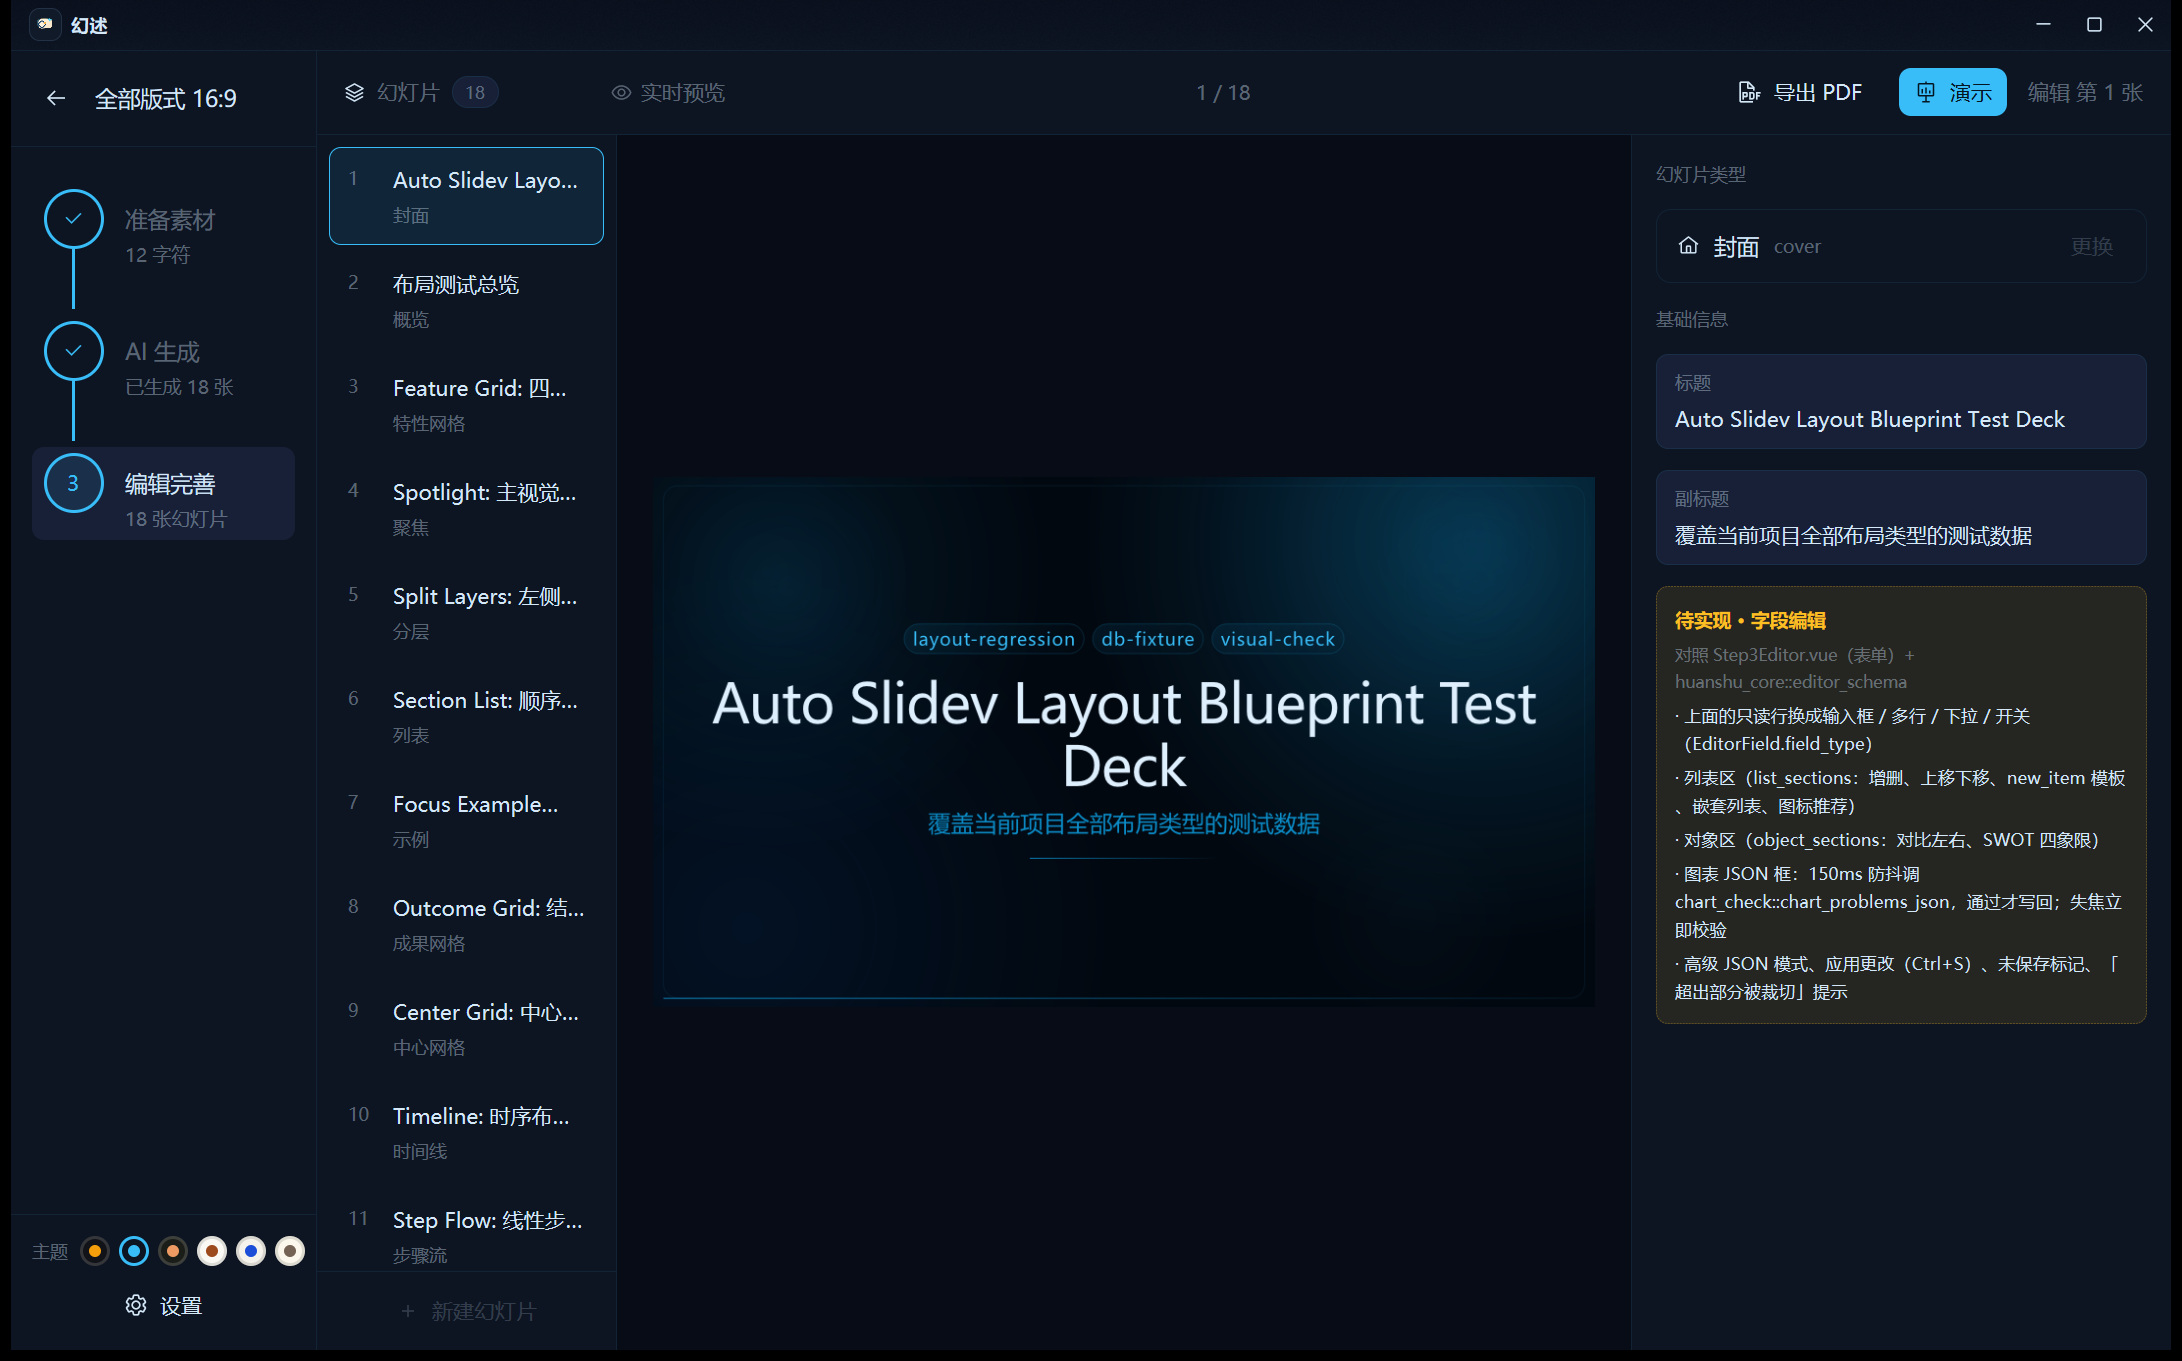
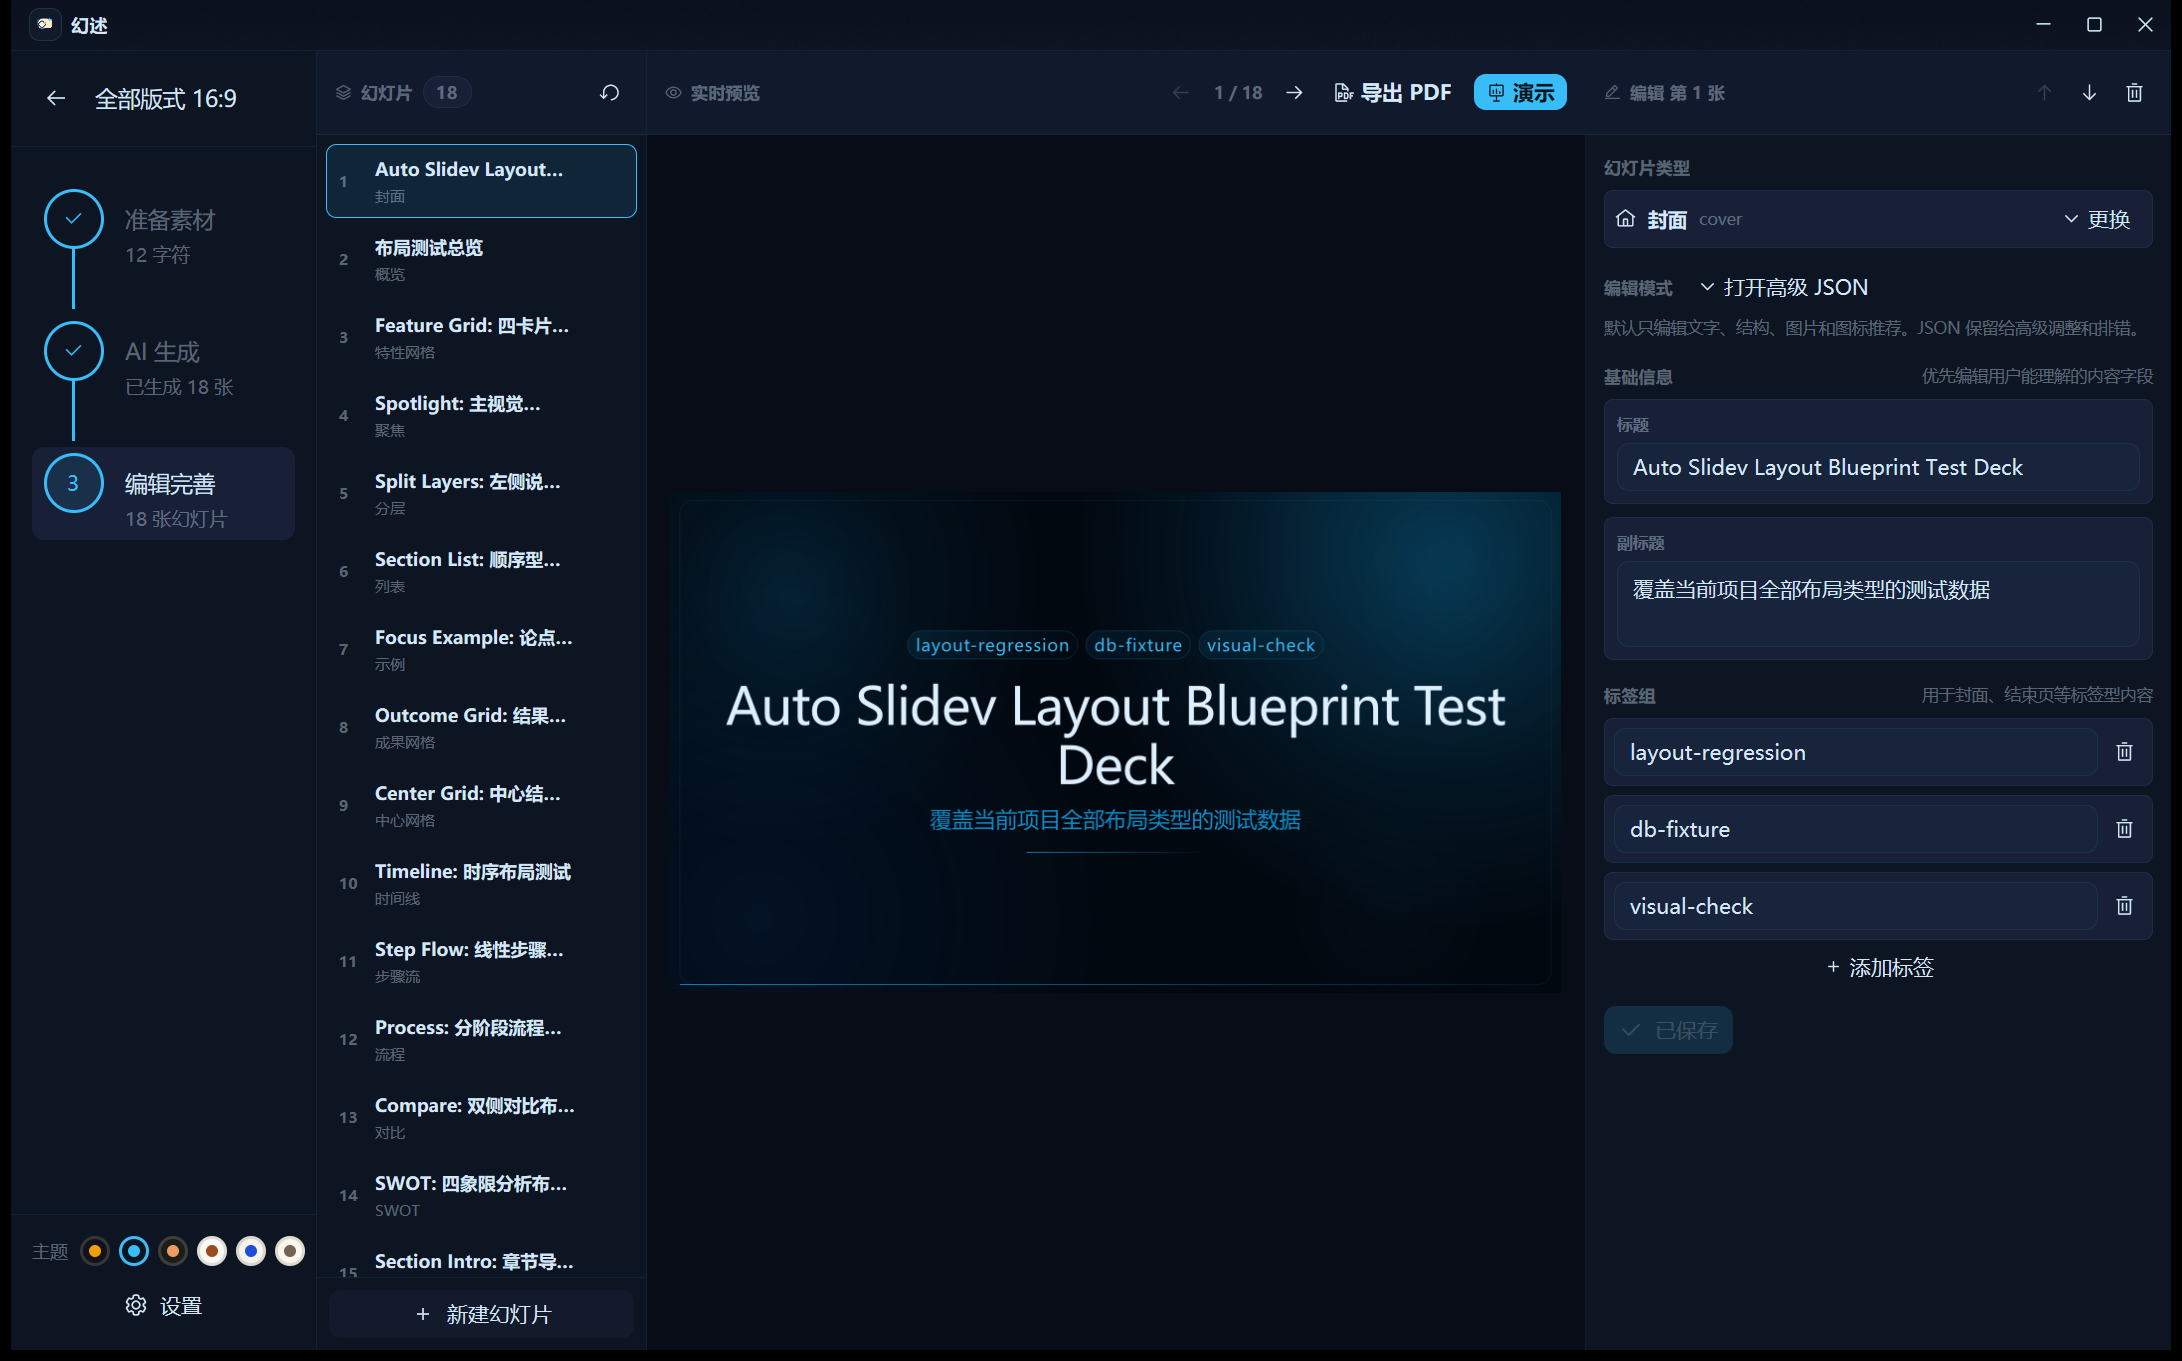
docs(native): parity and screenshots for step 3 editing

diff --git a/docs/native/parity.md b/docs/native/parity.md
@@ -81,6 +81,7 @@
 | 项目改名（点名字编辑，回车/失焦保存，Esc 取消） | ✅ | `mod.rs::start_rename` / `save_name`（空名不保存、保持编辑态，照原版）；待截图对比 |
 | 新建项目的草稿（名称、文稿、粒度、比例）保存与恢复 | ✅ | 800ms 防抖自动保存（`WorkflowPage::schedule_autosave` / `persist_draft`，新建落库后 `retarget_route` 对准路由）；meta 存 `app_settings` 的 `project_meta:<id>`（`services::projects::Step1ProjectMeta`，单测 `step1_meta_*`）；待截图对比 |
 | 生成完成后自动跳到第 3 步 | ✅ | `sync_advance`：条件从**应用级 store** 读（`state_for` → `GenState`），与原版 watch 的 `[stage, retryingPages.size, 有失败页]` 一样「变了才判断」——`done` + 无重试 + 无失败页 + 用户正停在本项目的第 2 步时，800ms 后再查一遍再跳；计时走 `window.background_executor().timer`（不是 tokio）；自动跳页依赖一次成功的生成，**未真机验证**（需 LM Studio） |
+| 牌组的唯一写入路径 | ✅ | 第三步的每一处编辑（应用 / 新建 / 删除 / 移动 / 换版式）都只经 `WorkflowPage::commit_deck(deck, active, save, …)`：先写 `ProjectModel`（`deck` + `active_slide`）→ 再写应用级 store（`GenerationStore::set_deck`，只在 store 正持有本项目且不在生成中时写得进去）→ `save` 时整副 JSON 落库；`on_generation_changed` 的镜像比较后相等就不动，不会回环。落库状态由 `ProjectModel.deck_saving` / `deck_save_error` 单点表达（每条出口都复位） |
 | 库里停在 `running` 的旧运行（上次进程崩了） | 🟡 | **有意偏离**：原版会一直转圈；这里按「已中断」显示（`running=false`、阶段照 `slideStatus` 的非运行分支）且允许重新生成，**不改库**（`GenerationStore::apply_run`） |
 
 ## 第一步 `Step1Prepare.vue` + `MarkdownWorkbench.vue` → `workflow/step1.rs`
@@ -122,21 +123,22 @@
 
 | 功能 | 状态 | 说明 / 依据 |
 |---|---|---|
-| 工具栏：幻灯片数、页码、导出 PDF、演示 | ✅ | |
-| 左侧列表：序号、标题、版式；点击 / ↑↓ 换页 | ✅ | |
-| 中间实时预览（Typst 位图、加载 / 失败 / 重试） | ✅ | `slides::SlideImages` |
-| 裁切提示 | ✅ | 文案与原版一致 |
-| 只发当前页编译（`serial` + `progressive`） | ⬜ | 编辑接上后改成单页牌组 |
-| 版式卡片（图标、名称、kind） | ✅ | 来自 `editor_schema` |
-| 更换版式（KindPicker，change 模式） | ⬜ | `onKindPicked` |
-| 新建 / 删除 / 上下移动幻灯片 | ⬜ | `deleteEditorSlide` / `moveEditorSlide` |
-| 字段表单：简单字段（文本 / 多行 / 下拉 / 开关） | 🟡 | 现为只读展示 |
-| 列表区、嵌套列表、对象区 | ⬜ | `list_sections` / `object_sections` / `new_item` |
-| 图标推荐 | ⬜ | `services::generation::recommend_icons_for_query` |
-| 素材插图（主图、图集） | ⬜ | `setPrimaryImage` / `appendGalleryImage` |
-| 图表 JSON 框（防抖校验、失焦立即校验、只写回通过的） | ⬜ | `chart_check::chart_problems_json` |
-| 高级 JSON 模式（格式化、语义错误、插入素材引用） | ⬜ | `formatEditorJson` / `insertMediaUrl` |
-| 应用更改（`Ctrl+S`）与未保存标记 | ⬜ | `services::projects::update_project_blueprints` |
+| 工具栏：幻灯片数、页码、导出 PDF、演示 | ✅ | 拆成**三个栏头**（原版 `.edit-col-head`，同高连成一条）：左 `layers` +「幻灯片」+ 数量徽章 + `reset` 图标（回第 1 步）；中 `view` +「实时预览」+「● 未保存」+「渲染中…」+ `← N / M →`（两端禁用）+「导出 PDF」+「演示」；右 `edit` +「编辑 第 N 张」+ 上移 / 下移 / 删除。截图 `shell/project-step3-0.png`（对照 `reference/project-step3.png`） |
+| 左侧列表：序号、标题、版式；点击 / ↑↓ 换页 | ✅ | 行尾垃圾桶**只在悬停该行时显示**（`group` + `group_hover`，原版 `.edit-slide-row:hover .edit-row-del`）、只剩一页时不显示；点击行为实测（`3 / 18`、`4 / 19`）；↑↓ 只在第三步根节点自己有焦点时换页——焦点在输入框里时 ↑↓ 不换页（实测），KindPicker 开着时也不换页（实测） |
+| 中间实时预览（Typst 位图、加载 / 失败 / 重试） | ✅ | `slides::SlideImages` + `slide_frame`；舞台在栏头之下取最大比例框、四周 16px，比例按当前页草稿的 `aspect_ratio`（缺省回落项目比例）；实测 32:9 项目舞台明显变宽 |
+| 裁切提示 | ✅ | 「内容过多，已缩到最小字号仍放不下，超出部分被裁切」（`warning-alt` 图标），`SlideImages::overflow(0)` 为真时显示 |
+| 只发当前页编译（`serial` + `progressive`） | ✅ | 牌组恒为 `[draft]`（下标 0）；草稿变化 **120ms 防抖**（`debounceMs: 120`）后 `set_deck`；换页走 `SlideImages::reset`（清图 + 逐张 `drop_image`，不是重建实体）；`serial` / `progressive` 取 `PreviewOptions::default()`（都是真）；「渲染中…」在 `pending()` 持续 **150ms** 后才显示 |
+| 版式卡片（图标、名称、kind） | ✅ | 来自 `editor_schema`；`shell/project-step3-0.png` |
+| 更换版式（KindPicker，change 模式） | ✅ | 实测 feature_grid 页 →「更换」→「列表」（section_list）：`章节号 01` / `标题` / `副标题` **保留**，新内容来自 schema 的默认值，当前 kind 高亮；未点「应用更改」前 sqlite 里那一页仍是 `feature_grid`。标题「更换幻灯片类型」/「选择新类型后将自动保留可迁移的公共字段」逐字；截图 `shell/project-step3-kind-picker-0.png`（对照 `reference/step3-kind-picker.png`） |
+| 新建 / 删除 / 上下移动幻灯片 | ✅ | 「新建幻灯片」：徽章 18→19、`4 / 19`，**DB 仍 18 页**（新建只改内存，照原版）；新页章节号继承上一页——第 5 页（`section='02'`）之后新建得到 `'02'`，封面之后新建**没有** `section`（两者都用 sqlite 验过，测完还原）；删除 / 上移**立即落库**（sqlite：18→17 页且 `feature_grid` 消失；上移后页序交换） |
+| 字段表单：简单字段（文本 / 多行 / 下拉 / 开关） | ✅ | 全按 `editor_schema` 生成：`simple_fields ∩ kind.fields`、两列网格（`textarea` 占整行、`rows` 缺省 3）、`select` 未选中时显示「请选择」（= 空串，可清除）、`boolean` 是自带标签的勾选框（`Checkbox`）；表单表由 `tests/editor_schema.rs` 对着快照锁定 |
+| 列表区、嵌套列表、对象区 | ✅ | 18 个版式逐页走查（`tools/drive.ps1` 逐页截图 + 联系表；联系表是未提交的临时产物）+ compare / swot / process 全分辨率逐项核对：区标题 / `empty_text`（删空「列表项」→「还没有列表项」）/ 每项卡片「{label} {n}」+ 上移下移删除 / `string_lists` / `nested_lists`（process 的「阶段步骤」）/ `object_sections`（compare 的左右方案、swot 的四象限）/ `issue_stack` 的 cards 提示按张数二选一（逐字）；`icon_query_keys` 有值的卡片留「图标助手」占位 |
+| 图标推荐 | ⬜ | 卡片里留 `widgets::todo_block`（下一轮）；`iconQueryKeys` 的取词范围已显示在占位里 |
+| 素材插图（主图、图集） | ⬜ | 主图 / 图集的**文本输入与增删**已做（`image`、`images`，占位「media:12 或 https://...」）；素材条（缩略图、设为主图、加入图集）留 `widgets::todo_block`（下一轮，`setPrimaryImage` / `appendGalleryImage`） |
+| 图表 JSON 框（防抖校验、失焦立即校验、只写回通过的） | ⬜ | `chart_focus` 页留 `widgets::todo_block`（下一轮，`chart_check::chart_problems_json`） |
+| 高级 JSON 模式（格式化、语义错误、插入素材引用） | ⬜ | 「打开高级 JSON / 收起高级 JSON」可展开，内容是 `widgets::todo_block`（下一轮） |
+| 应用更改（`Ctrl+S`）与未保存标记 | ✅ | 三态逐字：`保存中…`（`renew`）/ `应用更改 (Ctrl+S)`（`save`）/ `已保存`（`checkmark`），保存失败时按钮下方是 `.ej-error` 样式的错误行；**Ctrl+S 在第三步任何位置都生效**（有意改进：原版只在高级 JSON 框里）；实测 sqlite 前后：`Auto Slidev Layout Blueprint Test Deck` → `… LOOP4`，杀进程重进项目仍是新值；`filter_slide_json` 的有意修改保住 `aspect_ratio`（32:9 项目改封面并应用后该页仍是 `ratio_32x9`，第 2 步看板卡片仍是 32:9） |
+| 生成中只读 | ✅ | **有意偏离**：`WorkflowPage::editing_locked` 为真时应用 / 新建 / 删除 / 移动 / 换版式与全部输入框禁用，保存按钮旁显示「生成进行中，完成后可编辑」（原版没挡，它遇到生成中的空位会出错） |
 
 ## 演示 `PresentationOverlay.vue` → `present.rs`
 

diff --git a/apps/huanshu-native/README.md b/apps/huanshu-native/README.md
@@ -55,6 +55,16 @@ src/
 7. 没做完的区域用 `widgets::todo_block` 占位（写清对照的 Vue 位置与要做的事），代码里的小缺口写 `TODO(parity): …`。
    做完一项就删掉占位，并更新 `docs/native/parity.md`。
 8. 真机验证只在沙箱里做（`HUANSHU_HOME`），**绝不碰** `%LOCALAPPDATA%\auto-slidev-studio`。
+9. **表单输入框是实体，不能每帧新建**（会丢焦点、丢光标、漏内存）：按**完整路径**（`cards[2].title`）
+   缓存 `Entity<InputState>` / `Entity<TextareaState>` / `Entity<SelectState<_>>`，各自订阅；订阅与缓存同生共死。
+   列表增删移、换页、换版式、应用成功这些**结构变化**用「表单代次」整组重建（下标变了路径就指向别的项）；
+   字段里打字**不**重建。render 里同步值时跳过**正被编辑**的那个框（`focus_handle.is_focused(window)`），
+   `InputState::set_value` 不发 `Change`，不会回环（样板见 `pages/workflow/step3.rs`）。
+10. **位图换目标（换页、换牌组）用 `SlideImages::reset`**，不要重建 `SlideImages`（图集不会自己回收）；
+    `release` 只在页面离开时调。要显示「渲染中…」用 `SlideImages::pending()` + 自己计时（原版 150ms）。
+11. **第三步的牌组编辑只走 `WorkflowPage::commit_deck`**（唯一写入路径）：它写 `ProjectModel` → 应用级
+    store（`GenerationStore::set_deck`）→ 按需落库。不要在页面里直接改 `ProjectModel.deck` 或 store 的牌组
+    （store 的镜像会盖回去，或者污染别的项目）；动手前先问 `WorkflowPage::editing_locked`（生成中只读）。
 
 ### 已知的 GPUI Kit 细节
 
